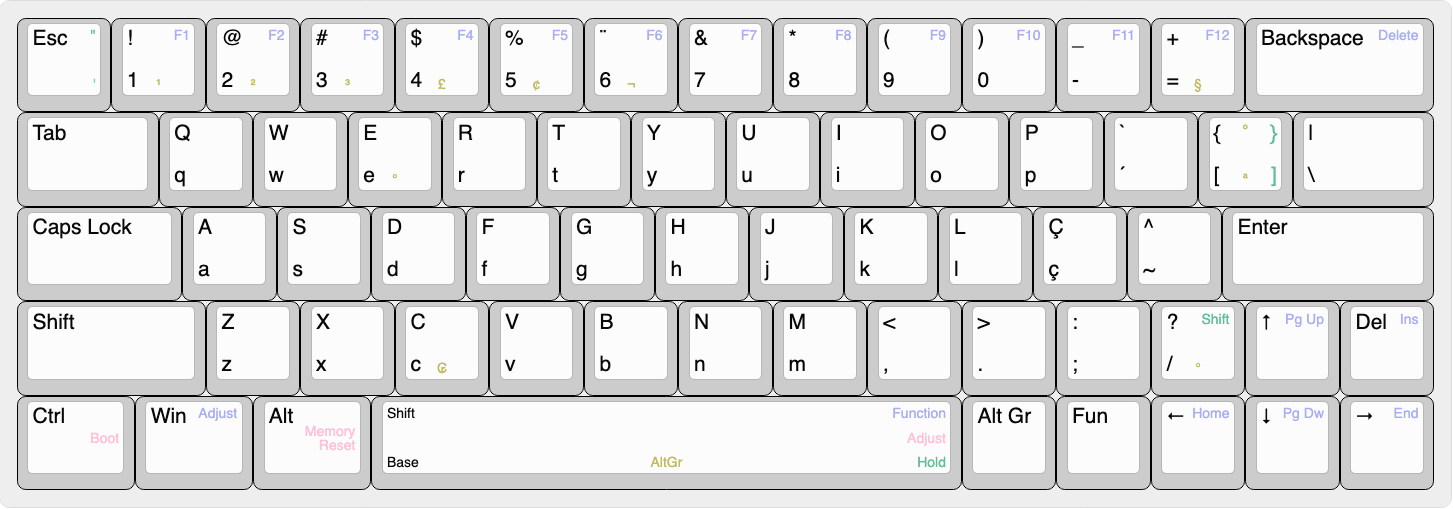
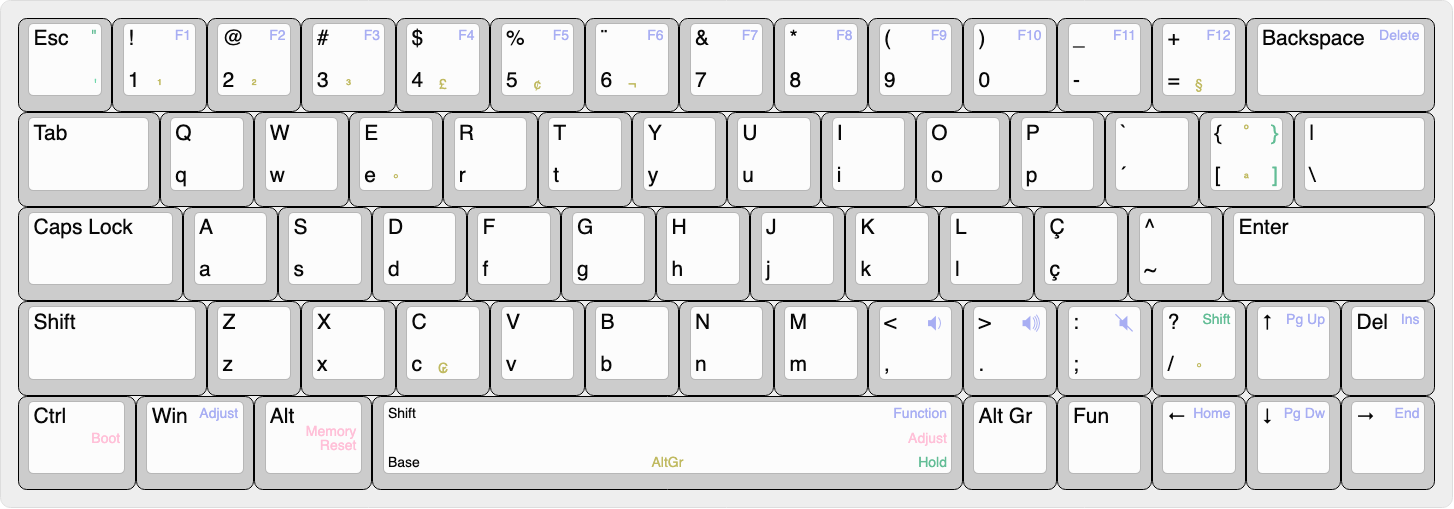
add volume controls to mj64

diff --git a/src/qmk/keyboards/melgeek/mj64/keymaps/clopes.le/keymap.c b/src/qmk/keyboards/melgeek/mj64/keymaps/clopes.le/keymap.c
@@ -31,7 +31,7 @@ const uint16_t PROGMEM keymaps[][MATRIX_ROWS][MATRIX_COLS] = {
 			KC_ESC,    KC_F1,    KC_F2,    KC_F3,    KC_F4,    KC_F5,    KC_F6,    KC_F7,    KC_F8,    KC_F9,    KC_F10,   KC_F11,   KC_F12,   KC_DEL,
 			_______,   _______,  _______,  _______,  _______,  _______,  _______,  _______,  _______,  _______,  _______,  _______,  BR_RBRC,  _______,
             _______,   _______,  _______,  _______,  _______,  _______,  _______,  _______,  _______,  _______,  _______,  _______,  _______,
-		    _______,   _______,  _______,  _______,  _______,  _______,  _______,  _______,  _______,  _______,  _______,  KC_SLSH,  KC_PGUP,  KC_INS,
+		    _______,   _______,  _______,  _______,  _______,  _______,  _______,  _______,  KC_VOLD,  KC_VOLU,  KC_MUTE,  KC_SLSH,  KC_PGUP,  KC_INS,
 			_______,   MO(2),    _______,                      _______,                                _______,  _______,  KC_HOME,  KC_PGDN,  KC_END
 	),
 	[2] = LAYOUT_64_ansi( /* Adjust */
